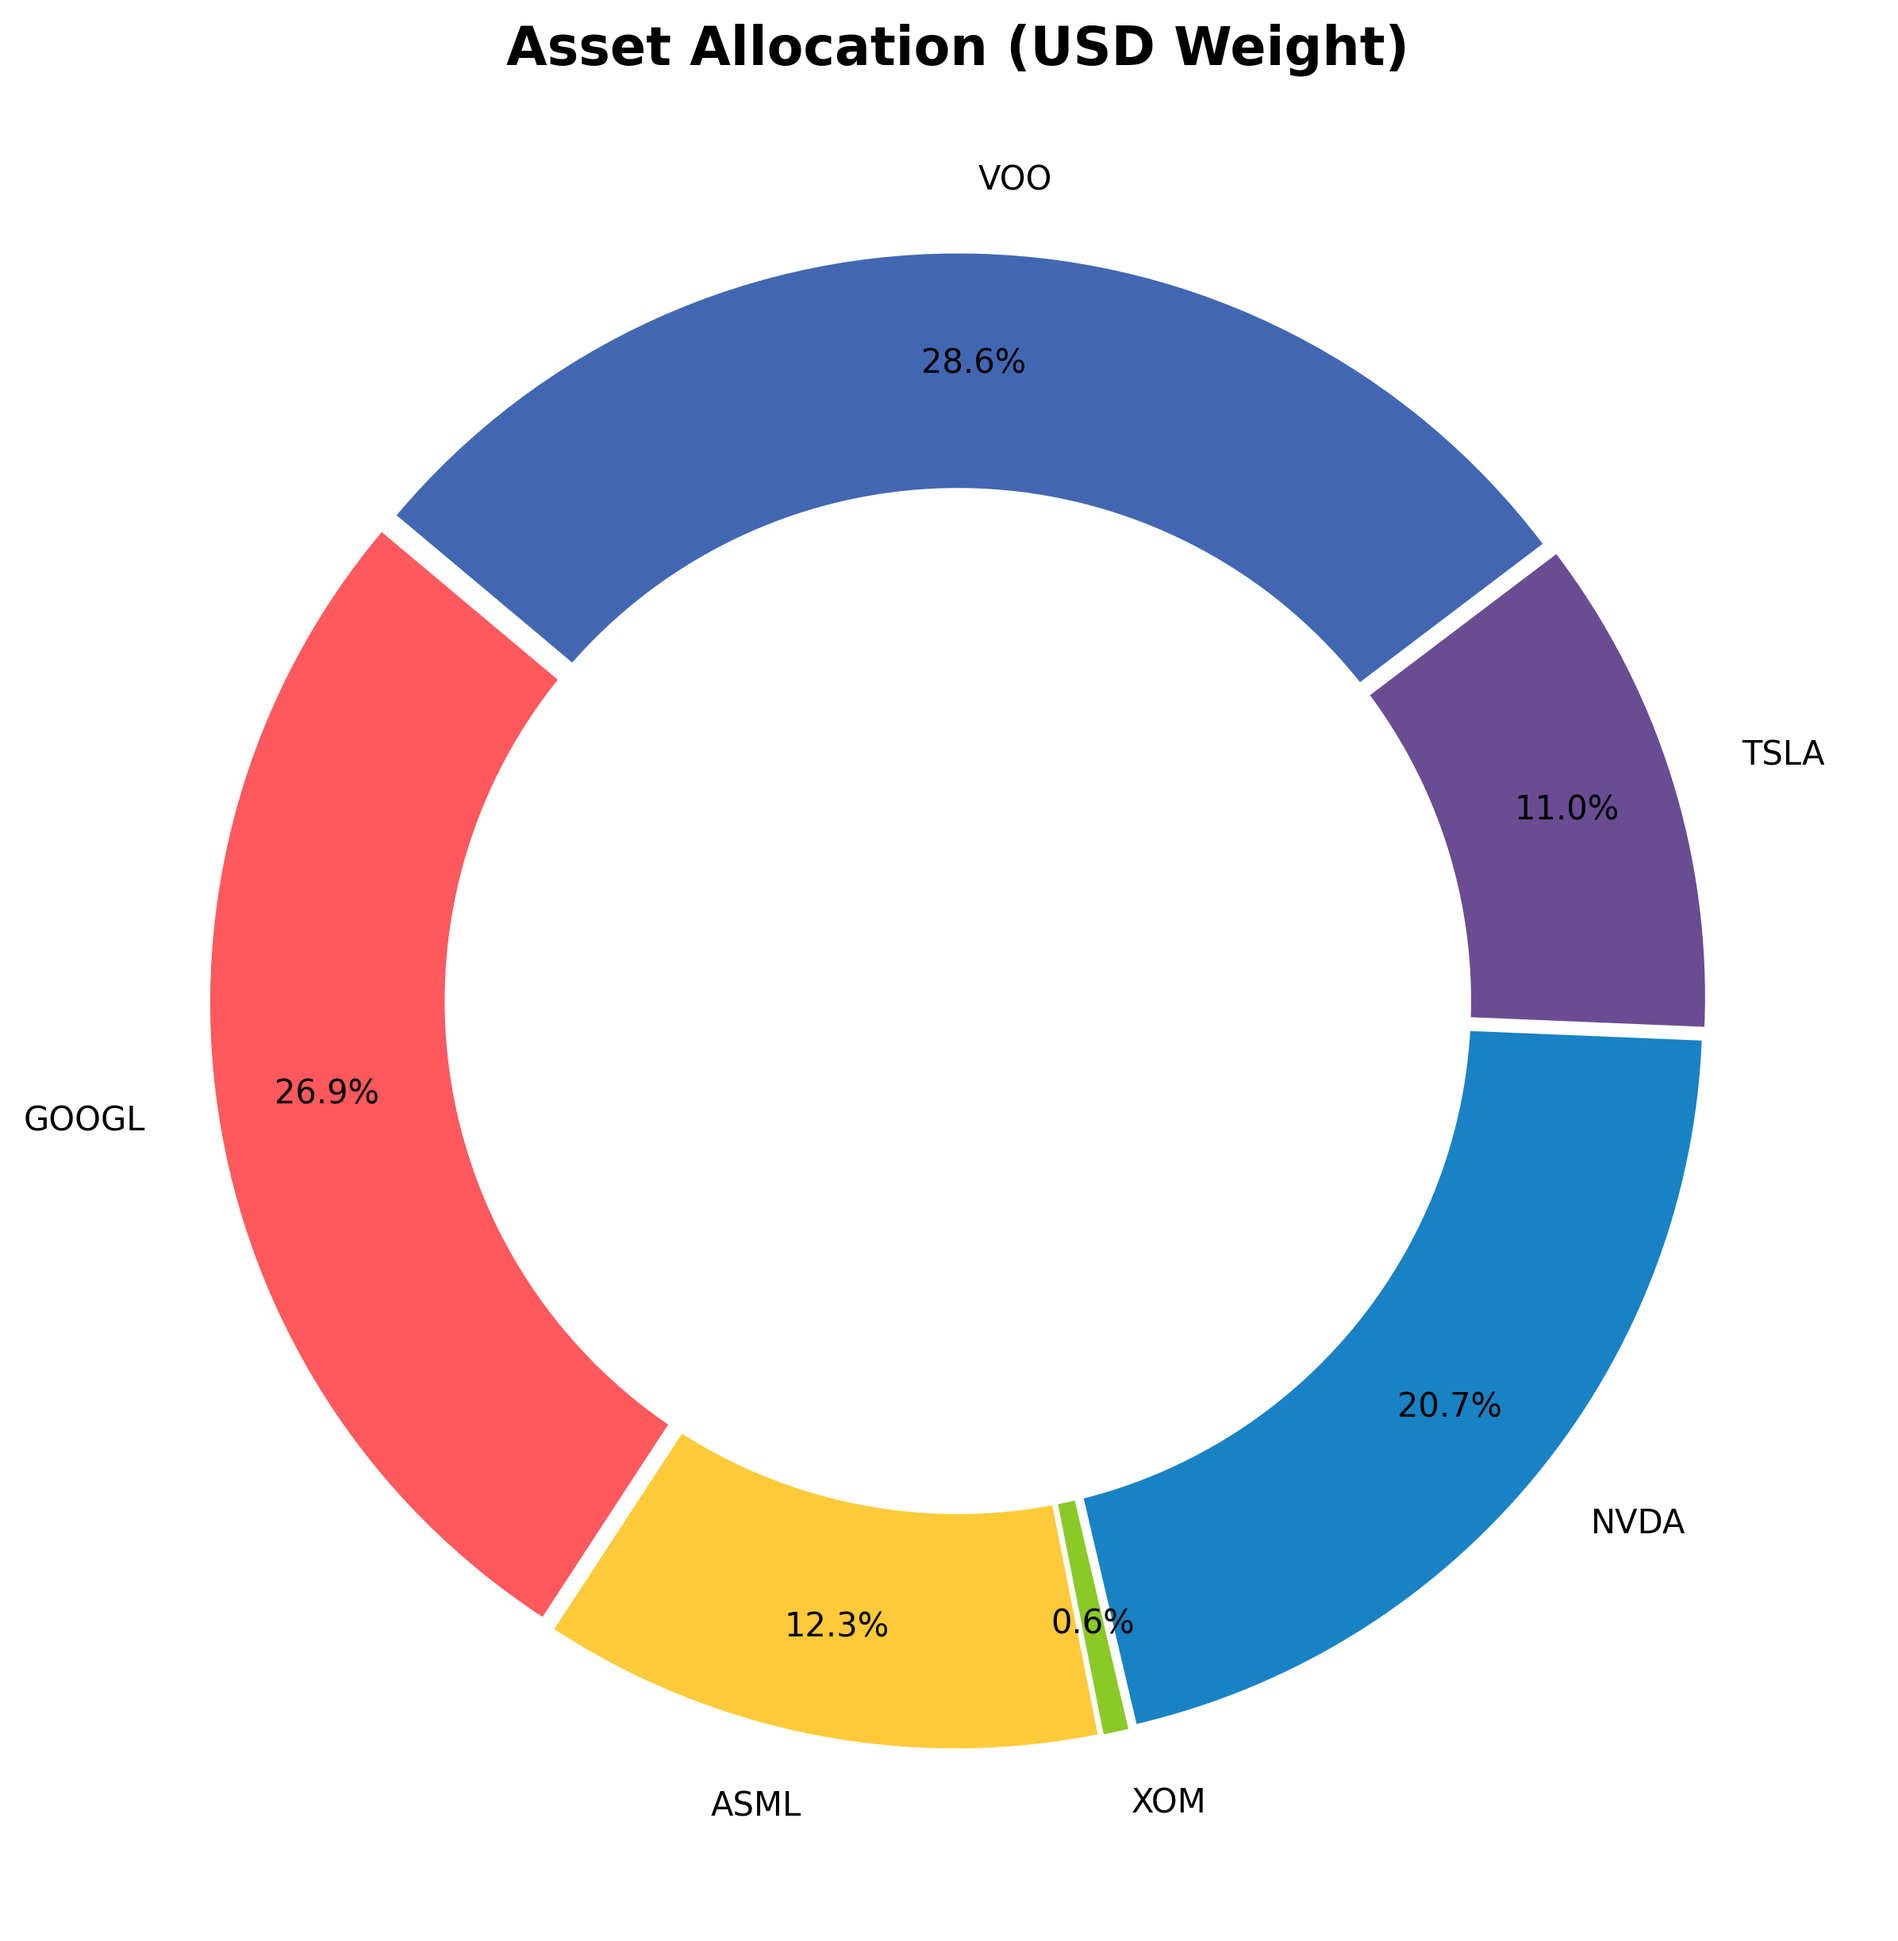
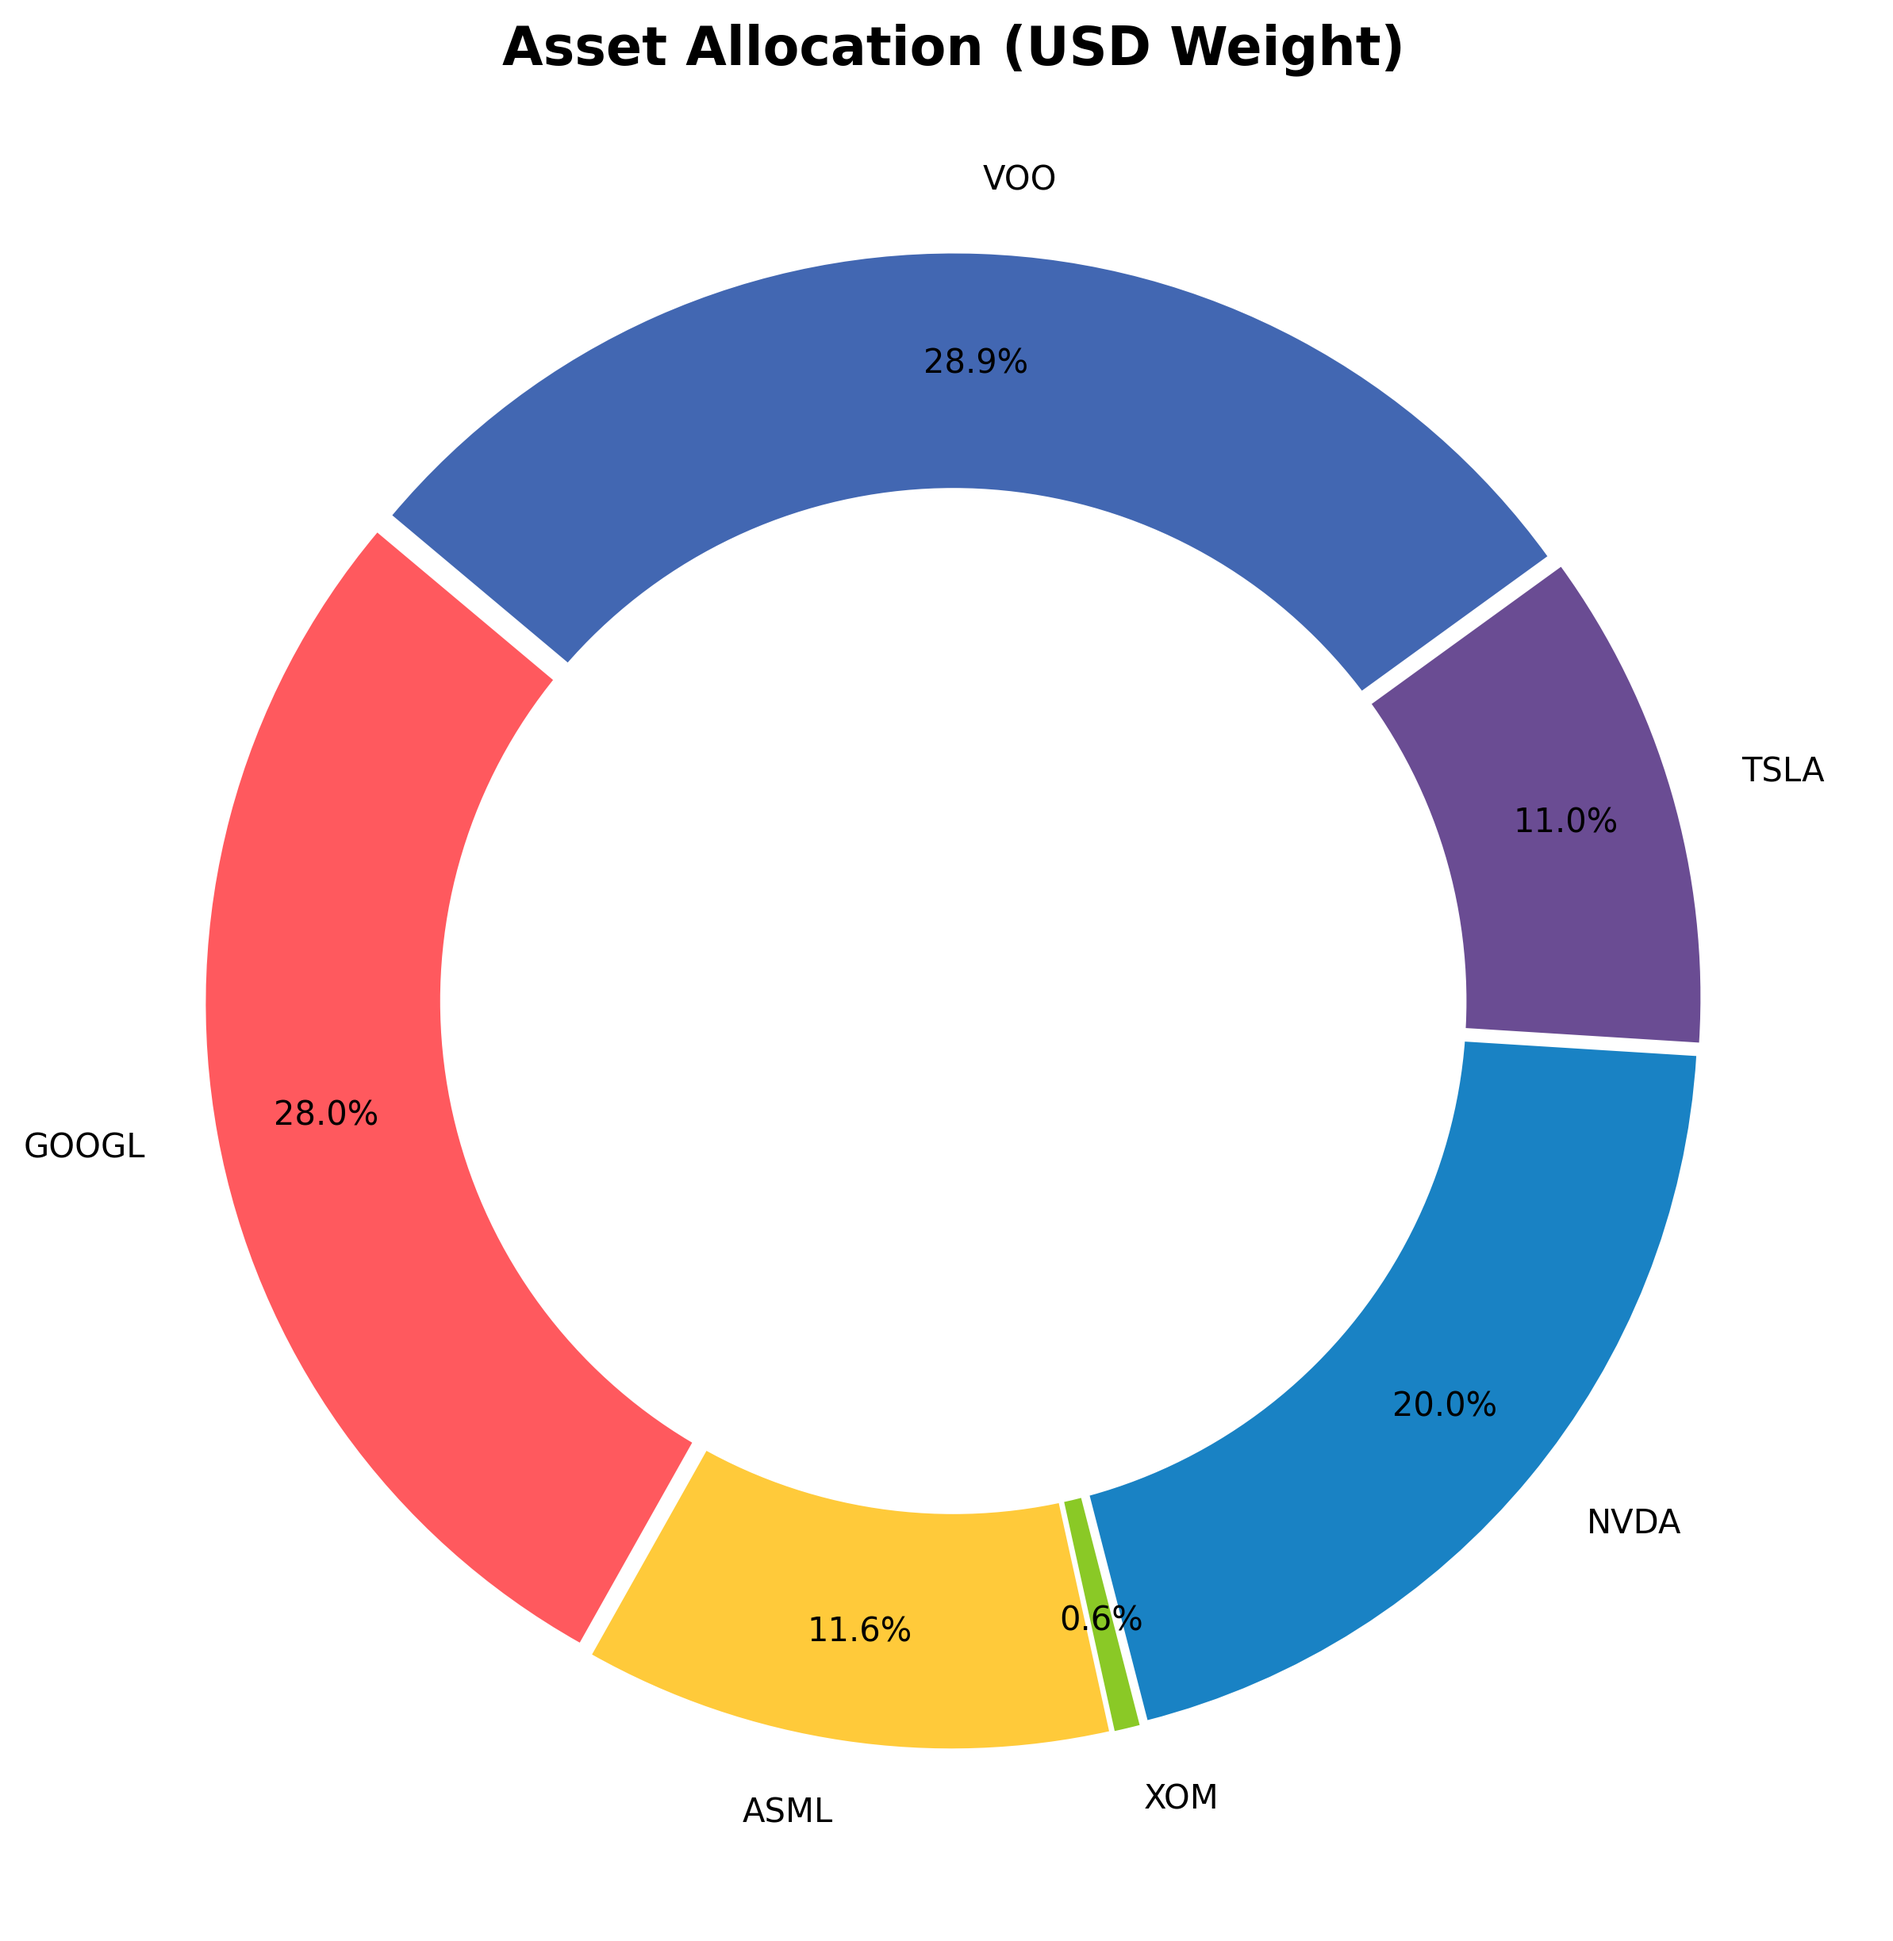
System Run: Analytics & Archive Update [skip ci]

diff --git a/README.md b/README.md
@@ -1,23 +1,23 @@
 # 📊 Portfolio Dashboard | מעקב תיק השקעות
-**Last Update:** 25/07/2026 02:05 | **USD/ILS:** ₪3.049
+**Last Update:** 27/07/2026 19:25 | **USD/ILS:** ₪3.057
 
 ## 💰 Portfolio Summary | סיכום התיק
 | Metric | Value | נתון |
 | :--- | :--- | :--- |
-| **Current Value** | `₪173,957` | **שווי נוכחי** |
-| **Total Invested** | `₪130,727` | **סך השקעה** |
-| **Total Profit/Loss** | `+33.07%` (₪43,230) | **רווח/הפסד כולל** |
-| **Daily Change** | `-0.51%` | **שינוי יומי** |
+| **Current Value** | `₪172,128` | **שווי נוכחי** |
+| **Total Invested** | `₪131,070` | **סך השקעה** |
+| **Total Profit/Loss** | `+31.33%` (₪41,058) | **רווח/הפסד כולל** |
+| **Daily Change** | `-1.31%` | **שינוי יומי** |
 
 ## 📜 Holdings | פירוט החזקות
 | Ticker | Shares | Avg. Cost | Current Price | P&L % | P&L ILS |
 | :--- | :--- | :--- | :--- | :--- | :--- |
-| GOOGL | 48 | $187.99 | $319.77 | 🟢 +70.10% | ₪19,288 |
-| ASML | 4 | $934.51 | $1,757.35 | 🟢 +88.05% | ₪10,036 |
-| XOM | 2 | $126.08 | $156.93 | 🟢 +24.47% | ₪188 |
-| NVDA | 57 | $148.62 | $206.96 | 🟢 +39.25% | ₪10,140 |
-| TSLA | 20 | $436.45 | $313.00 | 🔴 -28.29% | ₪-7,529 |
-| VOO | 24 | $527.38 | $679.14 | 🟢 +28.78% | ₪11,106 |
+| GOOGL | 48 | $187.99 | $327.98 | 🟢 +74.47% | ₪20,544 |
+| ASML | 4 | $934.51 | $1,633.43 | 🟢 +74.79% | ₪8,547 |
+| XOM | 2 | $126.08 | $156.93 | 🟢 +24.47% | ₪189 |
+| NVDA | 57 | $148.62 | $197.49 | 🟢 +32.88% | ₪8,516 |
+| TSLA | 20 | $436.45 | $308.91 | 🔴 -29.22% | ₪-7,799 |
+| VOO | 24 | $527.38 | $678.12 | 🟢 +28.58% | ₪11,061 |
 
 ## 📈 Charts | גרפים
 ![Performance](./data_hub/portfolio_performance.png)
